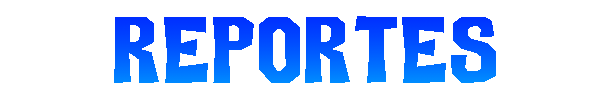
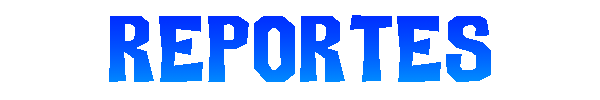
[VISUAL] REPORTES & SUCCESS JOPTIONPANE

Changed region(s): [[0.18, 0.15, 0.84, 0.84]]

diff --git a/src/co/edu/unbosque/view/PanelReportesDineroMensual.java b/src/co/edu/unbosque/view/PanelReportesDineroMensual.java
@@ -1,59 +1,51 @@
 package co.edu.unbosque.view;
 
 import java.awt.BorderLayout;
-import java.awt.Component;
+import java.awt.Color;
 import java.awt.Dimension;
 import java.awt.Font;
 import java.awt.GridBagLayout;
-import java.awt.GridLayout;
 
 import javax.swing.JButton;
 import javax.swing.JLabel;
 import javax.swing.JPanel;
 import javax.swing.JScrollPane;
 import javax.swing.JTextArea;
-import javax.swing.JTextField;
 import javax.swing.SwingConstants;
 
 public class PanelReportesDineroMensual {
-	
+
 	private JPanel panel = new JPanel(new GridBagLayout());
 	private JPanel columna = new JPanel(new BorderLayout(15, 15));
-	private JPanel superior = new JPanel(new GridLayout(3, 2, 15, 15));
 	private JLabel txt = new JLabel();
-	
-	private JLabel lblTotalRecaudado = new JLabel("");
+
+	private JLabel lblTotalRecaudado = PanelMenu.crearLabel("");
 	private JTextArea areaDetalle = new JTextArea();
 	private JScrollPane scrollDetalle = new JScrollPane(areaDetalle);
-	
+
 	private JButton btnVolver = new JButton("Volver");
-	
+
 	public PanelReportesDineroMensual() {
-		txt.setText("Dinero Recaudado Mensual");
-		txt.setHorizontalAlignment(SwingConstants.CENTER);
-		
+		panel.setBackground(PanelMenuReportes.FONDO_REPORTES);
+		columna.setBackground(PanelMenuReportes.FONDO_REPORTES);
+
+		lblTotalRecaudado.setHorizontalAlignment(SwingConstants.CENTER);
+
 		areaDetalle.setEditable(false);
 		areaDetalle.setLineWrap(true);
 		areaDetalle.setWrapStyleWord(true);
+		areaDetalle.setFont(new Font(Font.SANS_SERIF, Font.BOLD, 16));
 		scrollDetalle.setPreferredSize(new Dimension(550, 180));
 
-		superior.add(txt);
-		superior.add(lblTotalRecaudado);
-		
-		columna.add(superior, BorderLayout.NORTH);
+		PanelMenu.crearBoton(btnVolver, Color.BLACK, Color.WHITE);
+
+		columna.add(lblTotalRecaudado, BorderLayout.NORTH);
 		columna.add(scrollDetalle, BorderLayout.CENTER);
 		columna.add(btnVolver, BorderLayout.SOUTH);
-		
-		for (Component c : superior.getComponents()) {
-			c.setFont(new Font("Arial", Font.PLAIN, 18));
-		}
-		txt.setFont(new Font("Arial", Font.BOLD, 24));
-		areaDetalle.setFont(new Font("Arial", Font.PLAIN, 16));
-		btnVolver.setFont(new Font("Arial", Font.PLAIN, 18));
 
-		panel.add(columna);
+		JLabel imgTitulo = PanelMenu.crearImagen("/co/edu/unbosque/images/RecaudoMensual.png");
+		PanelMenu.ajustarPanel(panel, imgTitulo, columna);
 	}
-
 	public JPanel getPanel() {
 		return panel;
 	}
@@ -68,14 +60,6 @@ public class PanelReportesDineroMensual {
 
 	public void setColumna(JPanel columna) {
 		this.columna = columna;
-	}
-
-	public JPanel getSuperior() {
-		return superior;
-	}
-
-	public void setSuperior(JPanel superior) {
-		this.superior = superior;
 	}
 
 	public JLabel getTxt() {

diff --git a/src/co/edu/unbosque/view/PanelReportesNoche.java b/src/co/edu/unbosque/view/PanelReportesNoche.java
@@ -1,11 +1,10 @@
 package co.edu.unbosque.view;
 
 import java.awt.BorderLayout;
-import java.awt.Component;
+import java.awt.Color;
 import java.awt.Dimension;
 import java.awt.Font;
 import java.awt.GridBagLayout;
-import java.awt.GridLayout;
 
 import javax.swing.JButton;
 import javax.swing.JLabel;
@@ -15,44 +14,39 @@ import javax.swing.JTextArea;
 import javax.swing.SwingConstants;
 
 public class PanelReportesNoche {
-	
+
 	private JPanel panel = new JPanel(new GridBagLayout());
 	private JPanel columna = new JPanel(new BorderLayout(15, 15));
-	private JPanel superior = new JPanel(new GridLayout(2, 1, 10, 10));
 	private JLabel txt = new JLabel();
 
-	private JLabel lblResumen = new JLabel("");
+	private JLabel lblResumen = PanelMenu.crearLabel("");
 	private JTextArea areaReporte = new JTextArea();
 	private JScrollPane scrollReporte = new JScrollPane(areaReporte);
-	
+
 	private JButton btnVolver = new JButton("Volver");
-	
+
 	public PanelReportesNoche() {
-		txt.setText("Vehículos que Pasaron la Noche");
-		txt.setHorizontalAlignment(SwingConstants.CENTER);
+		panel.setBackground(PanelMenuReportes.FONDO_REPORTES);
+		columna.setBackground(PanelMenuReportes.FONDO_REPORTES);
+
 		lblResumen.setHorizontalAlignment(SwingConstants.CENTER);
 
 		areaReporte.setEditable(false);
 		areaReporte.setLineWrap(true);
 		areaReporte.setWrapStyleWord(true);
+		areaReporte.setFont(new Font(Font.SANS_SERIF, Font.BOLD, 16));
 		scrollReporte.setPreferredSize(new Dimension(550, 220));
 
-		superior.add(txt);
-		superior.add(lblResumen);
+		PanelMenu.crearBoton(btnVolver, Color.BLACK, Color.WHITE);
 
-		columna.add(superior, BorderLayout.NORTH);
+		columna.add(lblResumen, BorderLayout.NORTH);
 		columna.add(scrollReporte, BorderLayout.CENTER);
 		columna.add(btnVolver, BorderLayout.SOUTH);
 
-		for (Component c : superior.getComponents()) {
-			c.setFont(new Font("Arial", Font.PLAIN, 18));
-		}
-		txt.setFont(new Font("Arial", Font.BOLD, 24));
-		areaReporte.setFont(new Font("Arial", Font.PLAIN, 16));
-		btnVolver.setFont(new Font("Arial", Font.PLAIN, 18));
-
-		panel.add(columna);
+		JLabel imgTitulo = PanelMenu.crearImagen("/co/edu/unbosque/images/VehiculosNoche.png");
+		PanelMenu.ajustarPanel(panel, imgTitulo, columna);
 	}
+
 
 	public JPanel getPanel() {
 		return panel;
@@ -68,14 +62,6 @@ public class PanelReportesNoche {
 
 	public void setColumna(JPanel columna) {
 		this.columna = columna;
-	}
-
-	public JPanel getSuperior() {
-		return superior;
-	}
-
-	public void setSuperior(JPanel superior) {
-		this.superior = superior;
 	}
 
 	public JLabel getTxt() {

diff --git a/src/co/edu/unbosque/view/PanelReportes24h.java b/src/co/edu/unbosque/view/PanelReportes24h.java
@@ -1,11 +1,10 @@
 package co.edu.unbosque.view;
 
 import java.awt.BorderLayout;
-import java.awt.Component;
+import java.awt.Color;
 import java.awt.Dimension;
 import java.awt.Font;
 import java.awt.GridBagLayout;
-import java.awt.GridLayout;
 
 import javax.swing.JButton;
 import javax.swing.JLabel;
@@ -15,43 +14,37 @@ import javax.swing.JTextArea;
 import javax.swing.SwingConstants;
 
 public class PanelReportes24h {
-	
+
 	private JPanel panel = new JPanel(new GridBagLayout());
 	private JPanel columna = new JPanel(new BorderLayout(15, 15));
-	private JPanel superior = new JPanel(new GridLayout(2, 1, 10, 10));
 	private JLabel txt = new JLabel();
 
-	private JLabel lblTotal = new JLabel("");
+	private JLabel lblTotal = PanelMenu.crearLabel("");
 	private JTextArea areaReporte = new JTextArea();
 	private JScrollPane scrollReporte = new JScrollPane(areaReporte);
 
 	private JButton btnVolver = new JButton("Volver");
-	
+
 	public PanelReportes24h() {
-		txt.setText("Vehículos por Hora (Mas de 24 Horas)");
-		txt.setHorizontalAlignment(SwingConstants.CENTER);
+		panel.setBackground(PanelMenuReportes.FONDO_REPORTES);
+		columna.setBackground(PanelMenuReportes.FONDO_REPORTES);
+
 		lblTotal.setHorizontalAlignment(SwingConstants.CENTER);
 
 		areaReporte.setEditable(false);
 		areaReporte.setLineWrap(true);
 		areaReporte.setWrapStyleWord(true);
+		areaReporte.setFont(new Font(Font.SANS_SERIF, Font.BOLD, 16));
 		scrollReporte.setPreferredSize(new Dimension(550, 220));
 
-		superior.add(txt);
-		superior.add(lblTotal);
+		PanelMenu.crearBoton(btnVolver, Color.BLACK, Color.WHITE);
 
-		columna.add(superior, BorderLayout.NORTH);
+		columna.add(lblTotal, BorderLayout.NORTH);
 		columna.add(scrollReporte, BorderLayout.CENTER);
 		columna.add(btnVolver, BorderLayout.SOUTH);
 
-		for (Component c : superior.getComponents()) {
-			c.setFont(new Font("Arial", Font.PLAIN, 18));
-		}
-		txt.setFont(new Font("Arial", Font.BOLD, 24));
-		areaReporte.setFont(new Font("Arial", Font.PLAIN, 16));
-		btnVolver.setFont(new Font("Arial", Font.PLAIN, 18));
-
-		panel.add(columna);
+		JLabel imgTitulo = PanelMenu.crearImagen("/co/edu/unbosque/images/Vehiculos24H.png");
+		PanelMenu.ajustarPanel(panel, imgTitulo, columna);
 	}
 
 	public JPanel getPanel() {
@@ -68,14 +61,6 @@ public class PanelReportes24h {
 
 	public void setColumna(JPanel columna) {
 		this.columna = columna;
-	}
-
-	public JPanel getSuperior() {
-		return superior;
-	}
-
-	public void setSuperior(JPanel superior) {
-		this.superior = superior;
 	}
 
 	public JLabel getTxt() {

diff --git a/src/co/edu/unbosque/controller/Controller.java b/src/co/edu/unbosque/controller/Controller.java
@@ -250,11 +250,10 @@ public class Controller implements ActionListener {
 				}
 
 				PropietarioDTO propDTO = new PropietarioDTO(documento,nombre,telefono);
-				Propietario prop = new Propietario(documento,nombre,telefono);
 				propietarioDAO.crear(propDTO);
 				
 				ReproducirAudio.reproducirSFX("Success.wav");
-				ve.mostrar("Propietario " + nombre + " registrado correctamente.");
+				ve.mostrarSUCCESS("Propietario " + nombre + " registrado correctamente.");
 				ppRegistrar.getTxtfieldDocumento().setText("");
 				ppRegistrar.getTxtfieldNombre().setText("");
 				ppRegistrar.getTxtfieldTelefono().setText("");
@@ -320,7 +319,7 @@ public class Controller implements ActionListener {
                     }
                 }else throw new PropietarioNoExisteException();
                 ReproducirAudio.reproducirSFX("Success.wav");
-				ve.mostrar(tipoV + " " + placa + " registrado.");
+				ve.mostrarSUCCESS(tipoV + " " + placa + " registrado.");
 				pvRegistrar.getTxtfieldPlaca().setText("");
 				pvRegistrar.getTxtfieldPropietarioDoc().setText("");
 				pvRegistrar.getTxtfieldSOAT().setText("");
@@ -366,7 +365,7 @@ public class Controller implements ActionListener {
 				
 				ReproducirAudio.reproducirSFX("Success.wav");
 				
-				ve.mostrar(
+				ve.mostrarSUCCESS(
 						"Salida registrada correctamente\n"
 						+ "Factura #" + factura.getNum() + "\n"
 						+ "Placa: " + factura.getPlaca() + "\n"
@@ -465,7 +464,7 @@ public class Controller implements ActionListener {
 				parqueadero.registrarMensualidad(documento, nombre, placa, tipoV, propietarioDAO, carroDAO, motoDAO);
 				
 				ReproducirAudio.reproducirSFX("Success.wav");
-				ve.mostrar("Mensualidad registrada para " + tipoV + " " + placa + ".");
+				ve.mostrarSUCCESS("Mensualidad registrada para " + tipoV + " " + placa + ".");
 				pmenRegistrar.getTxtfieldPropietarioNom().setText("");
 				pmenRegistrar.getTxtfieldPropietarioDoc().setText("");
 				pmenRegistrar.getTxtfieldPlaca().setText("");

diff --git a/src/co/edu/unbosque/view/VentanaEmergente.java b/src/co/edu/unbosque/view/VentanaEmergente.java
@@ -24,7 +24,7 @@ public class VentanaEmergente {
 	}
 	
 	public void mostrarSUCCESS(String txt) {
-		URL url = getClass().getResource("/co/edu/unbosque/images/Succes.png");
+		URL url = getClass().getResource("/co/edu/unbosque/images/Success.png");
 		ImageIcon icono;
 		if(url != null) icono = new ImageIcon(url);
 		else icono = null;

diff --git a/src/co/edu/unbosque/view/PanelMenu.java b/src/co/edu/unbosque/view/PanelMenu.java
@@ -78,7 +78,7 @@ public class PanelMenu {
 	
 	public static JLabel crearImagen(String ruta) {
 		JLabel label = new JLabel();
-		java.net.URL url = PanelMenu.class.getResource(ruta);
+		URL url = PanelMenu.class.getResource(ruta);
 
 		if (url != null) {
 			label.setIcon(new ImageIcon(url));
